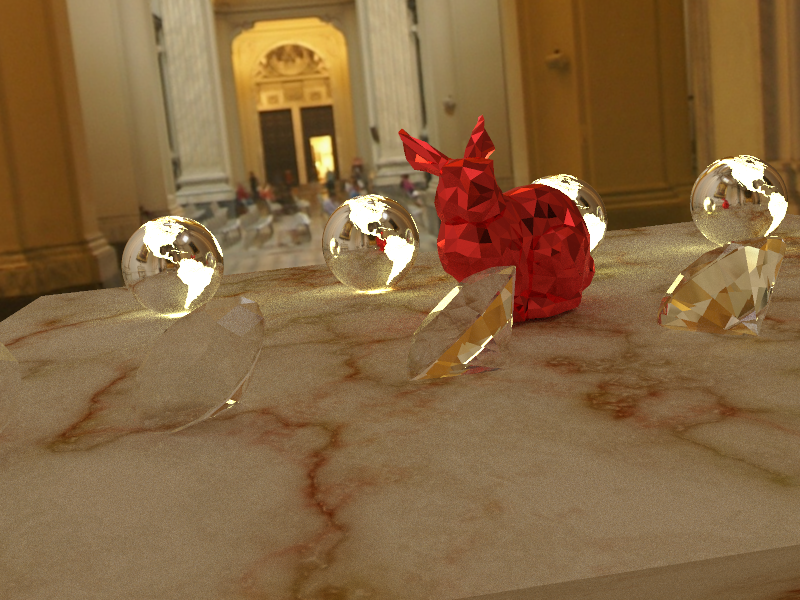
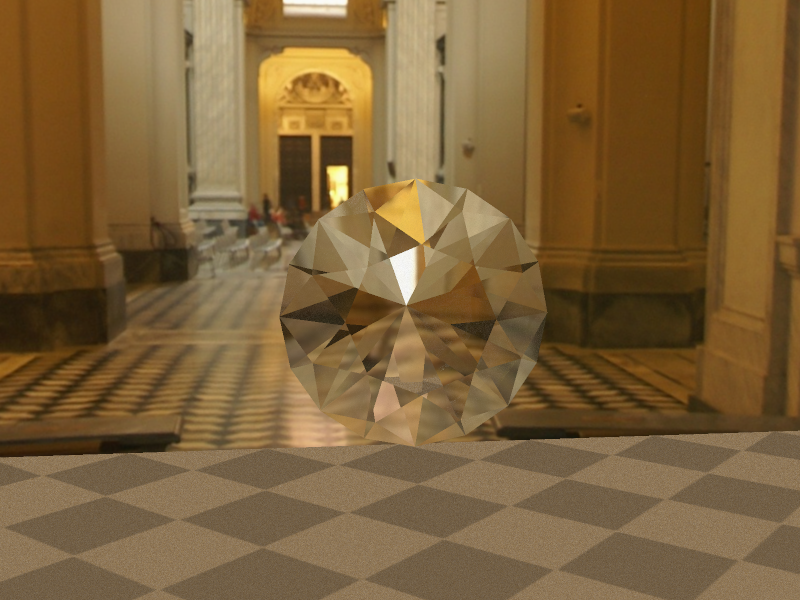
test floating dia

diff --git a/src/main.rs b/src/main.rs
@@ -39,9 +39,9 @@ fn render() {
     //let mut imgbuf = image::ImageBuffer::new(1920, 1080);
 
     let camera = Camera::new(
-        Vector3::new(-2.0, 1.5, 8.0),// eye
-        Vector3::new(-1.0, 0.2, 0.0),// target
-        Vector3::new(0.1, 1.0, 0.0).normalize(),// y_up
+        Vector3::new(-0.5, 2.5, 4.0),// eye
+        Vector3::new(0.0, 2.0, 0.0),// target
+        Vector3::new(0.0, 1.0, 0.0).normalize(),// y_up
         17.0,// fov
 
         LensShape::Circle,// lens shape
@@ -52,7 +52,7 @@ fn render() {
     let mut scene = Scene {
         elements: vec![
             // うさぎ
-            Box::new(BvhMesh::from_mesh(ObjLoader::load(
+            /*Box::new(BvhMesh::from_mesh(ObjLoader::load(
                 "models/bunny/bunny_face1000.obj",
                 Matrix44::scale_linear(1.0) * Matrix44::translate(0.0, 0.0, 0.0) * Matrix44::rotate_y(0.5),
                 Material {
@@ -61,7 +61,7 @@ fn render() {
                     emission: Texture::black(),
                     roughness: Texture::from_color(Color::from_one(0.1)),
                 },
-            ))),
+            ))),*/
 
             // 背後にある地図ガラス
             /*Box::new(AxisAlignedBoundingBox {
@@ -74,6 +74,29 @@ fn render() {
                     roughness: Texture::black(),
                 }
             }),*/
+
+            Box::new(BvhMesh::from_mesh(ObjLoader::load(
+                "models/dia/dia.obj",
+                Matrix44::translate(0.0, 2.0, 0.0) * Matrix44::scale_linear(1.0) *Matrix44::rotate_x(90.0.to_radians()),
+                Material {
+                    surface: SurfaceType::GGXReflection { refractive_index: 1.4 },
+                    albedo: Texture::from_color(Color::new(1.0, 1.0, 1.0)),
+                    emission: Texture::black(),
+                    roughness: Texture::from_color(Color::from_one(0.01)),
+                },
+            ))),
+
+
+            Box::new(BvhMesh::from_mesh(ObjLoader::load(
+                "models/dia/dia.obj",
+                Matrix44::translate(-2.0, 0.0, 0.0) * Matrix44::scale_linear(1.0) * Matrix44::rotate_y(-0.2) * Matrix44::rotate_x(40.9771237.to_radians()),
+                Material {
+                    surface: SurfaceType::GGXReflection { refractive_index: 1.4 },
+                    albedo: Texture::from_color(Color::new(1.0, 1.0, 1.0)),
+                    emission: Texture::black(),
+                    roughness: Texture::from_color(Color::from_one(0.01)),
+                },
+            ))),
 
             // エリアライト
             /*Box::new(AxisAlignedBoundingBox {
@@ -93,9 +116,9 @@ fn render() {
                 right_top: Vector3::new(5.0, 0.0, 5.0),
                 material: Material {
                     surface: SurfaceType::Diffuse,
-                    albedo: Texture::from_path("textures/2d/stone03.jpg"),
                     //albedo:  Texture::white(),
-                    //albedo: Texture::from_path("textures/2d/checkered_v2_512.png"),
+                    //albedo: Texture::from_path("textures/2d/stone03.jpg"),
+                    albedo: Texture::from_path("textures/2d/checkered_v2_512.png"),
                     emission: Texture::black(),
                     roughness: Texture::black(),
                 }
@@ -111,7 +134,7 @@ fn render() {
         ),
     };
 
-    for x in 0..5 {
+    /*for x in 0..5 {
         scene.add(Box::new(BvhMesh::from_mesh(ObjLoader::load(
             "models/dia/dia.obj",
             Matrix44::translate(-4.0 + 1.7 * x as f64, 0.0, 2.0) * Matrix44::scale_linear(1.0) * Matrix44::rotate_y(-0.9 * x as f64) * Matrix44::rotate_x(40.9771237.to_radians()),
@@ -136,7 +159,7 @@ fn render() {
                 roughness: Texture::from_color(Color::from_one(0.1)),
             }
         }));
-    }
+    }*/
 
     let mut renderer = DebugRenderer{};
     let mut renderer = PathTracingRenderer::new();
